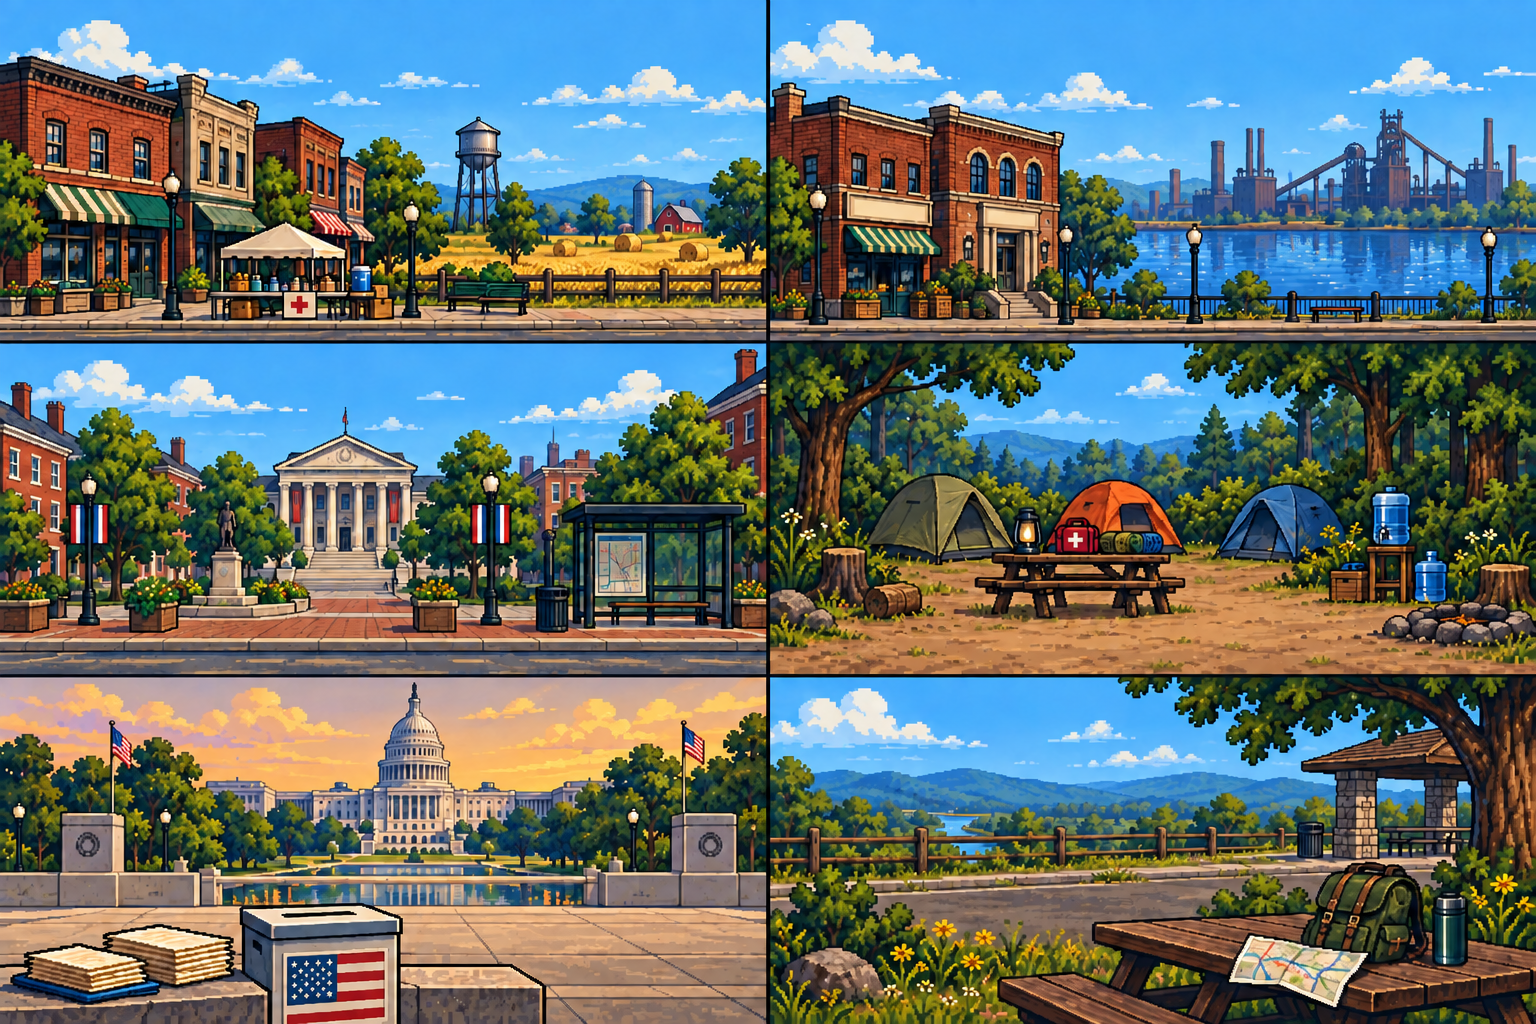
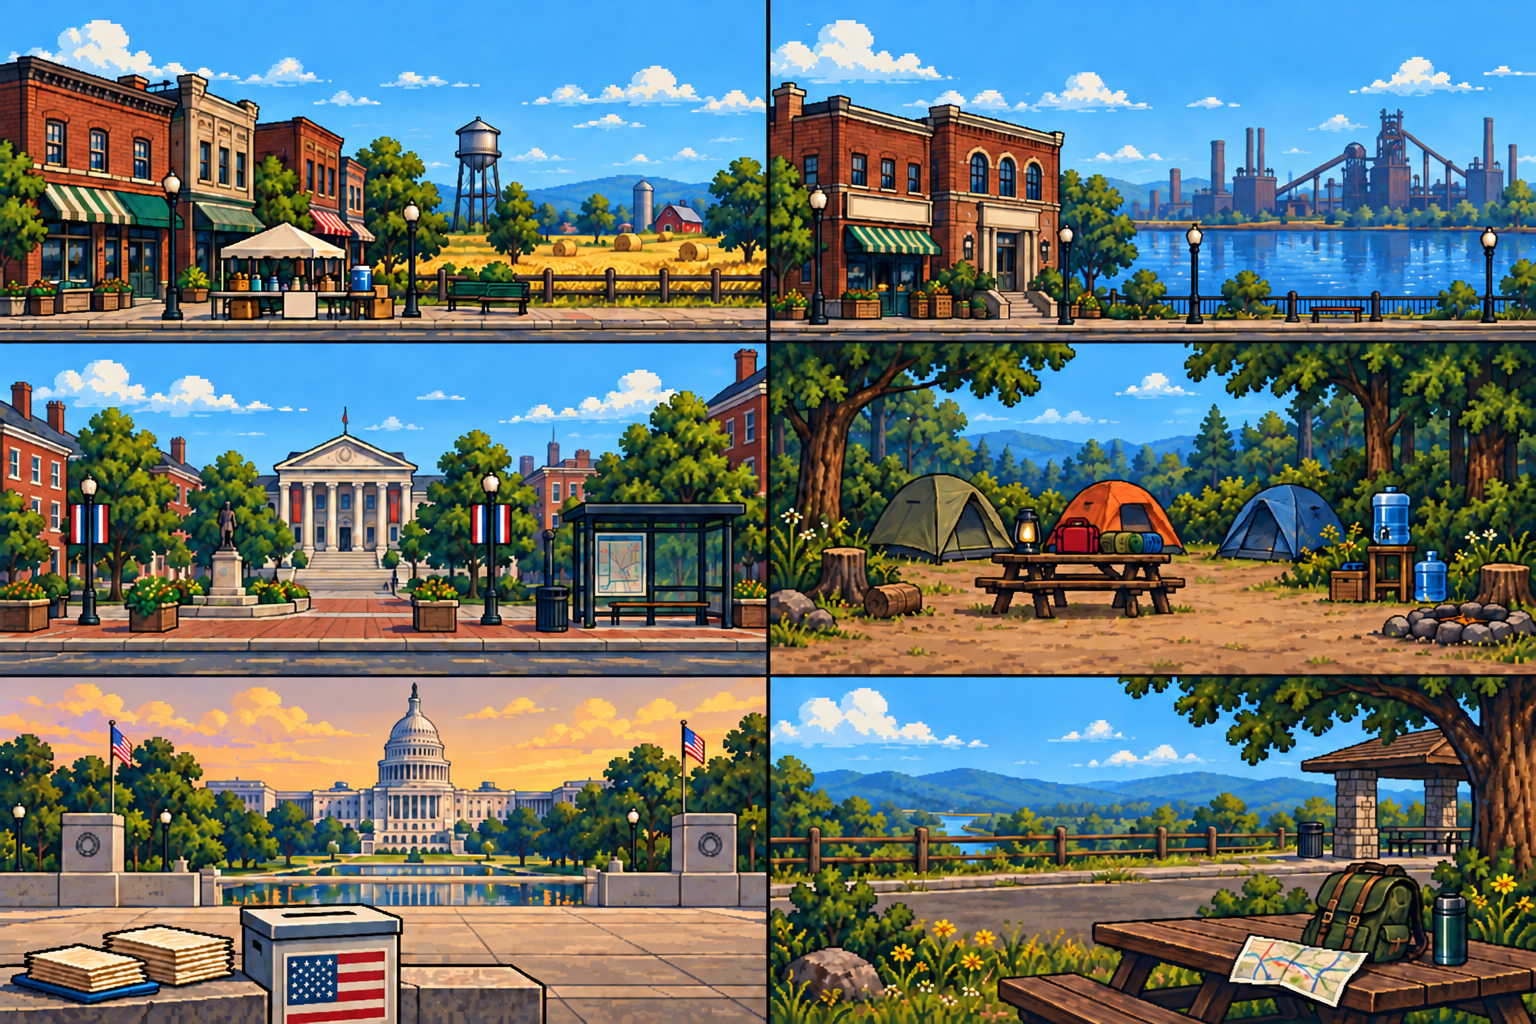
Restore retained symbol-free town and camp settings

diff --git a/dystrail-web/tests-e2e/scene-settings-recovery.spec.ts b/dystrail-web/tests-e2e/scene-settings-recovery.spec.ts
@@ -1,0 +1,26 @@
+import {test, expect} from '@playwright/test';
+import {baseline, waitForLaunch} from './helpers';
+
+test('camp uses preserved symbol-free atlas online and offline', async ({page, context}, info) => {
+  await page.setViewportSize({width:info.project.name === 'mobile' ? 390 : 1440,height:1000});
+  await page.emulateMedia({reducedMotion:'reduce'});
+  await baseline(page);
+  await page.getByRole('button',{name:'Camp',exact:true}).click();
+  const scene=page.locator('.scene-atlas[data-atlas="journey-settings-v1"][data-cell="3"]');
+  await expect(scene).toBeVisible();
+  const hash=await scene.locator('image').evaluate(async element=>{
+    const url=element.getAttribute('href')!;
+    const bytes=await (await fetch(url)).arrayBuffer();
+    return Array.from(new Uint8Array(await crypto.subtle.digest('SHA-256',bytes)),n=>n.toString(16).padStart(2,'0')).join('');
+  });
[1 lines of base64/hex data omitted]
+  await page.evaluate(()=>{(document.activeElement as HTMLElement)?.blur();window.scrollTo(0,0);});
+  await page.evaluate(()=>new Promise<void>(resolve=>requestAnimationFrame(()=>requestAnimationFrame(()=>resolve()))));
+  await page.screenshot({path:info.outputPath('corrected-camp.png'),fullPage:true});
+  await context.setOffline(true);
+  await page.reload(); await waitForLaunch(page);
+  // Camp is transient presentation; reopen it if restoring the saved travel state.
+  if(!(await scene.count())) await page.getByRole('button',{name:'Camp',exact:true}).click();
+  await expect(scene).toBeVisible();
+  expect(await page.evaluate(()=>document.documentElement.scrollWidth<=innerWidth)).toBe(true);
+});

diff --git a/dystrail-web/src/components/ui/journey_scene/mod.rs b/dystrail-web/src/components/ui/journey_scene/mod.rs
@@ -70,13 +70,14 @@ pub fn asset_name(deep: bool, stage: &SceneStage) -> Option<&'static str> {
 mod encounters;
 
 #[must_use]
-pub const fn road_asset(region: Region, _day: u32) -> &'static str {
+pub const fn road_asset(region: Region, day: u32) -> &'static str {
     match region {
         Region::PacificCoast => "open-pacific-northwest",
         Region::MountainWest => "open-mountain-west",
         Region::Southwest => "open-southwest-desert",
         Region::Heartland => "open-heartland-orchard",
         Region::RustBelt => "open-rustbelt-lakeside",
+        Region::Beltway if day % 2 == 0 => "open-beltway-suburbs",
         Region::Beltway => "open-beltway-parkway",
     }
 }
@@ -91,6 +92,8 @@ fn reviewed_road(region: Region, day: u32, requested: Option<&str>) -> &'static 
         Some("open-heartland-orchard") => "open-heartland-orchard",
         Some("open-rustbelt-lakeside") => "open-rustbelt-lakeside",
         Some("open-beltway-parkway") => "open-beltway-parkway",
+        Some("open-beltway-suburbs") => "open-beltway-suburbs",
+        Some("open-great-basin") => "open-great-basin",
         _ => road_asset(region, day),
     }
 }
@@ -144,11 +147,6 @@ mod tests {
                     "open-rustbelt-foundry",
                     "open-rustbelt-lakeside",
                 ),
-                (
-                    Region::Beltway,
-                    "open-beltway-suburbs",
-                    "open-beltway-parkway",
-                ),
             ] {
                 assert_eq!(reviewed_road(region, day, Some(excluded)), expected);
                 assert_eq!(reviewed_road(region, day, Some("unknown")), expected);
@@ -166,10 +164,22 @@ mod tests {
 
     #[test]
     fn roads_use_reviewed_regional_art_without_rng() {
-        for region in [Region::Heartland, Region::RustBelt, Region::Beltway] {
+        for region in [Region::Heartland, Region::RustBelt] {
             assert_eq!(road_asset(region, 1), road_asset(region, 2));
             assert_eq!(road_asset(region, 1), road_asset(region, 3));
         }
+        assert_ne!(
+            road_asset(Region::Beltway, 1),
+            road_asset(Region::Beltway, 2)
+        );
+        assert_eq!(
+            reviewed_road(Region::MountainWest, 1, Some("open-great-basin")),
+            "open-great-basin"
+        );
+        assert_eq!(
+            reviewed_road(Region::Beltway, 1, Some("open-beltway-suburbs")),
+            "open-beltway-suburbs"
+        );
         assert_ne!(
             road_asset(Region::Heartland, 1),
             road_asset(Region::RustBelt, 1)

diff --git a/progress.md b/progress.md
@@ -480,3 +480,8 @@ September 14 — standing crew transparency repair:
 
 ## 2026-09-21 — third production sheet
 - selected-satire-03 generated once, original bytes/hash/prompt preserved. Three of thirteen maximum attempts consumed. All four panels held for user review: solid caption bands and mismatched staging; biscuit resembles seal, sandwich misses photo field, filter reflection/proportions need review. No retries and no runtime bindings.
+
+## 2026-09-21 — recovered corrected town/camp atlas
+- Restored unchanged retained original96 (SHA256 813fedcd913da2356e6364561b217490fb550691bb73c0751bb3806b743f1de7) over stale journey-settings-v1. Market sign and camp bag are unmarked on visual inspection. No generation.
+- Corrected overly restrictive road allowlist: inventory explicitly approves suburbs and Great Basin; restored suburbs alternation and both valid overrides. Prairie/foundry remain excluded.
+- Ten journey tests passed; Trunk build7b8ac4f5867c83cc8002 includes137 files. New desktop/mobile camp browser checks passed, verifying exact corrected asset bytes and offline reload. Captures inspected and preserved in settings-checkpoint. This does not accept baked sunset ending cell, all town/camp content, numeric subtitles, or full feature.
